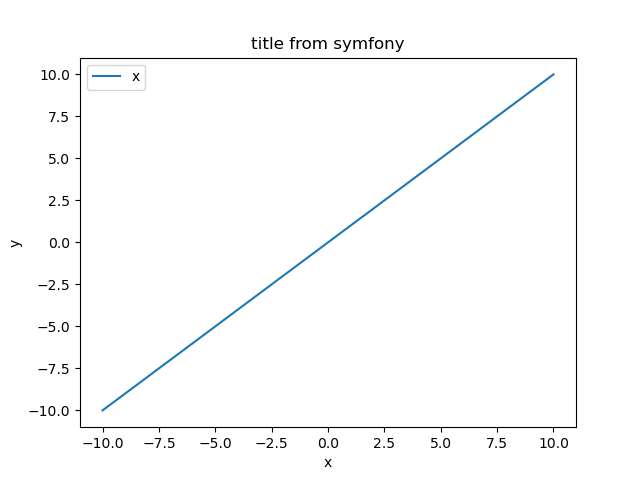
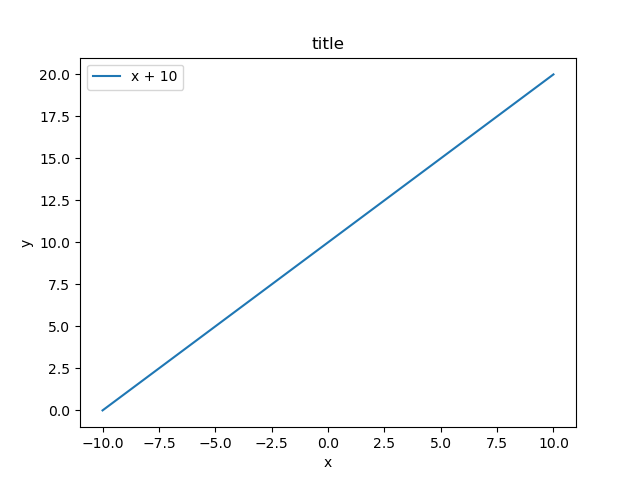
backend update for handling constants

diff --git a/python plots api/apiproject/app.py b/python plots api/apiproject/app.py
@@ -26,7 +26,10 @@ def plot():
 
         func_symbol = sympy.sympify(function_str)
         variables = func_symbol.free_symbols
-        dependent_variable = variables.pop()
+        if not variables:
+            dependent_variable = sympy.symbols("x")
+        else: 
+            dependent_variable = variables.pop()
         f = sympy.lambdify(dependent_variable, func_symbol)
         x = np.linspace(-10, 10, 200)
         y = f(x)

diff --git a/python plots api/mockbackend/backend.py b/python plots api/mockbackend/backend.py
@@ -20,7 +20,7 @@ def send_post_request(functionstr, title):
             f.write(image_data)
 
 
-send_post_request("t+ 3", "title")
+send_post_request("x + 10", "title")
 
 
 
